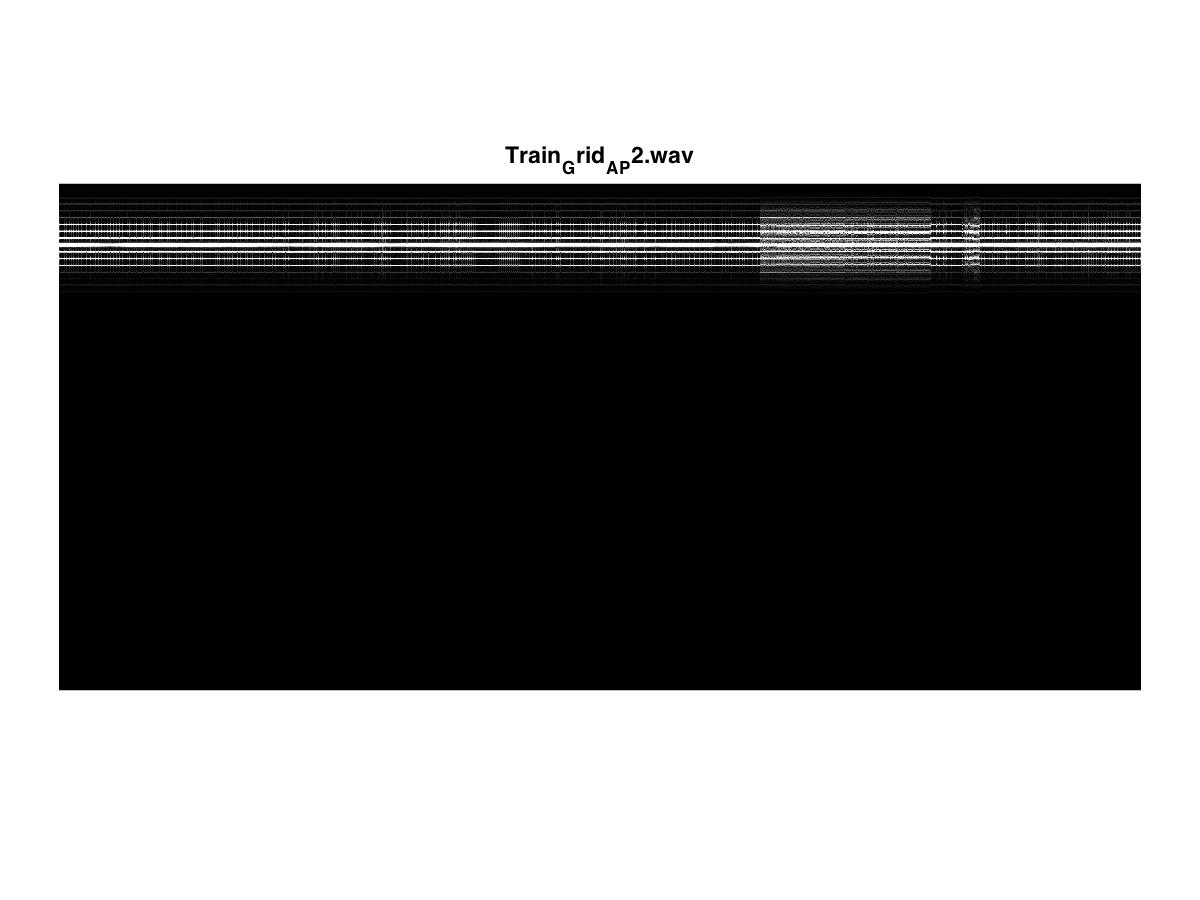
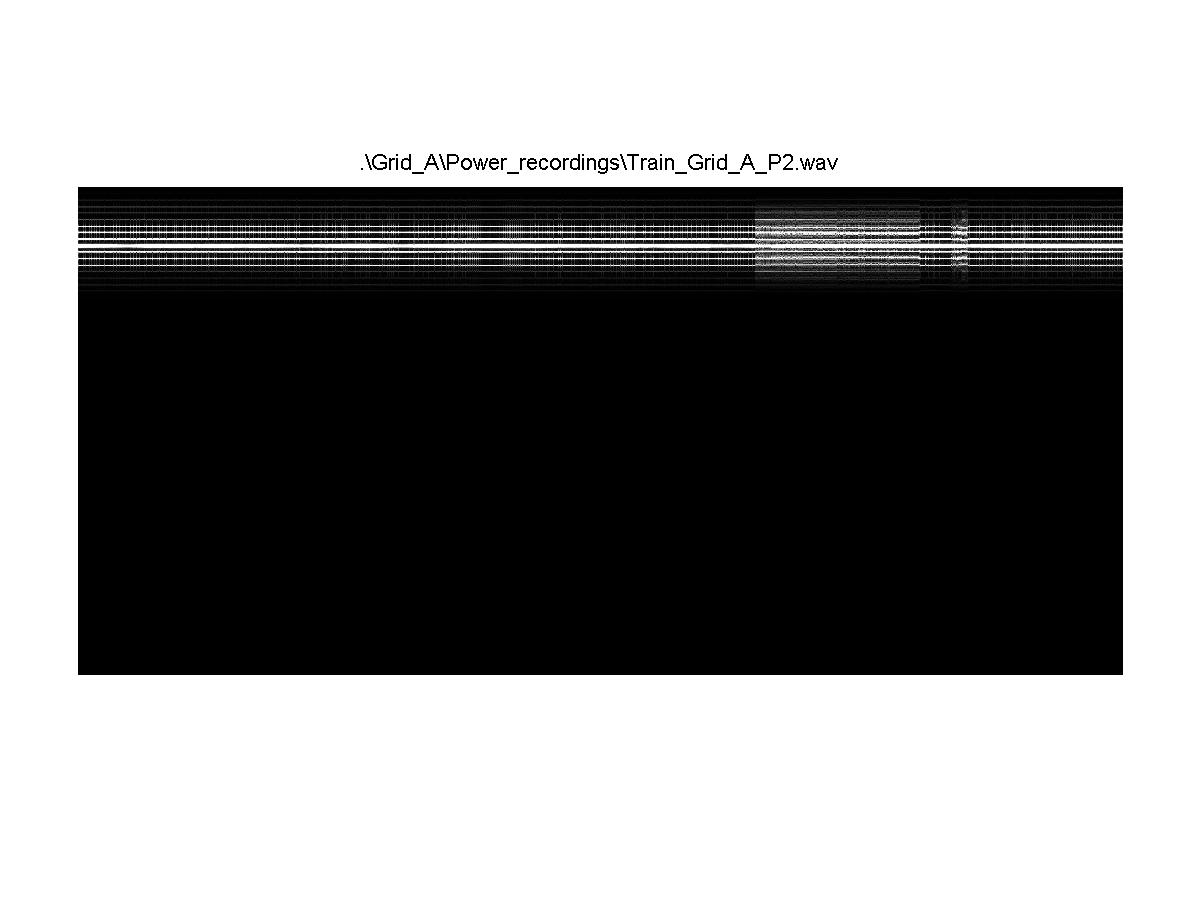
plot the ENF spectrogram of each power and audio file

Changed region(s): [[0.0308, 0.1556, 0.9558, 0.7778]]

diff --git a/test_area/seespectrogram.m b/test_area/seespectrogram.m
@@ -1,42 +1,63 @@
-clear all;
-[y,Fs] = audioread('./test.wav');
-figure(1);
-spectrogram(y,512,120,1024,Fs);
-f=fir1(64,[59*2/Fs 61*2/Fs]);% filter at sample frequency 59~61
-f1=fir1(64,70*2/Fs,'low');%low pass filter for down sampling
-y_fil=conv(y,f,'same');% filter the raw fignal
+clear all ; close all;
+fnames = dir('*.wav');
+numfids = length(fnames);
+winsize=1024;
+nfft=512;
+vals = cell(1,numfids);
 
-figure(2);
-spectrogram(y_fil,512,120,1024,Fs);
-ss1=spectrogram(y_fil,512,120,1024,Fs);
-figure(3);
-ss1_im=abs(ss1(1:1:end,:));
-imshow(ss1_im);
-[row col]=find(max(ss1));% get the interested points
-x=1:1:length(row);
-figure(4)
-plot(x,row);% ENF signal plot
+thepath='./';
+syntax='wav';
+fileList = getAllFiles(thepath);
+% fileList=cell2mat(fileList);
+validIndex =strfind(fileList,syntax);
+validIndex = not(cellfun('isempty', validIndex));
+for iDir=find(validIndex)
+    fileList=fileList(iDir);
+end
 
-a=conv(y_fil,f1,'same');% low pass the original signal before downsampling
-yd=downsample(a,8,0);% dowmsample to around 125hz
-
-Fs_d=Fs/8;% downsample rate
-
-%figure(4)
-%spectrogram(yd,1024/4,60,512*4,Fs/8);
-
-
-%figure(2);
-%spectrogram(yd,1024,60,512,Fs_d);% show sownsampled spectrogram
-ss=spectrogram(yd,1024,60,512,Fs_d);
-
-%figure(4)
-%imshow( abs(ss(1:1:end,:)) );
-
-[row col]=find(ss>0.1);% get the interested points
-x=1:1:length(row);
-%figure(3)
-%plot(x,row);% ENF signal plot
-
-
-
+for K = 1:length(fileList)
+  [vals{K} fs{K}] = audioread(cell2mat(fileList(K)));
+end
+%%
+numfids = length(vals);
+for i=1:numfids% different grid
+    %value=1:10;
+    %for knob=2.^value
+        fname=cell2mat(fileList(i));
+        y=cell2mat(vals(i));
+        Fs=cell2mat(fs(i));
+        %spectrogram(y,512,120,1024,Fs);
+        f=fir1(32,[59*2/Fs 61*2/Fs]);% filter at sample frequency 59~61
+        f1=fir1(32,70*2/Fs,'low');%low pass filter for down sampling
+        y_fil=conv(y,f,'same');% filter the raw fignal
+        
+        a=conv(y_fil,f1,'same');% low pass the original signal before downsampling
+        yd=downsample(a,8,0);% dowmsample to around 125hz
+        
+        Fs_d=Fs/8;% downsample rate
+        
+        %figure(4)
+        %spectrogram(yd,1024/4,60,512*4,Fs/8);
+        winsize=2048;
+        noverlap=floor(winsize*0.2);
+        nfft=1024;
+        %figure
+        win=hann(winsize);
+        spectrogram(y_fil,win,noverlap,nfft,Fs);
+        ss=spectrogram(y_fil,win,noverlap,nfft,Fs);
+        fig=figure
+        imshow(abs(ss));
+        title(fname)
+        filenames = strrep(fname, '.wav', '.jpg');
+        saveas(fig,filenames);
+        
+        %     [row col]=find(ss>0.1);% get the interested points
+        %     x=1:1:length(row);
+        %     figure(3)
+        %     plot(x,row);% ENF signal plot
+        
+        
+        %figure(3)
+        %imshow( abs(ss(1:1:end, :)) );
+    %end
+end
